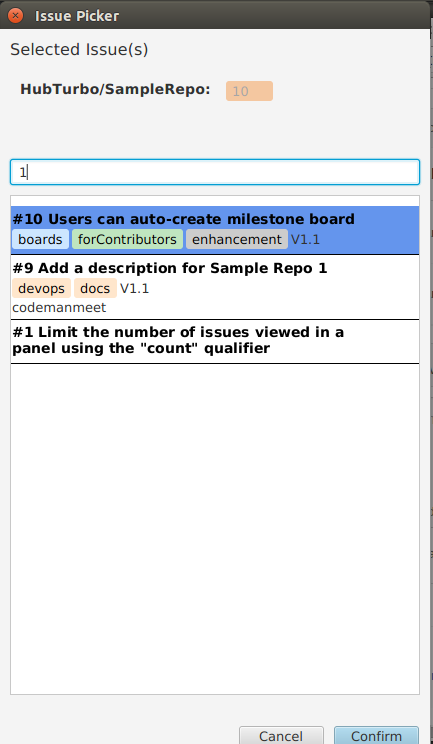
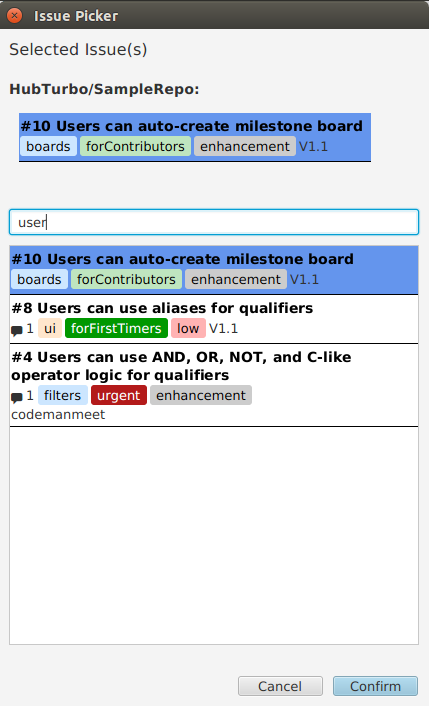
Remove PickerIssue and fix focus after mouse click

Changed region(s): [[0.0, 0.0, 1.0, 1.0]]

diff --git a/src/main/java/ui/components/issuepicker/IssueCard.java b/src/main/java/ui/components/issuepicker/IssueCard.java
@@ -93,30 +93,29 @@ public class IssueCard extends VBox {
         issueDetails.getChildren().clear();
         TurboIssue issue = guiElement.getIssue();
 
-        if (issue.isPullRequest()) {
-            Label icon = new Label(OCTICON_PULL_REQUEST);
-            icon.getStyleClass().addAll("octicon", "issue-pull-request-icon");
-            issueDetails.getChildren().add(icon);
-        }
+        addPullRequestIcon(issue);
+        addCommentIcon(issue);
+        addLabels();
+        addMilestoneIcon(issue);
 
-        if (issue.getCommentCount() > 0){
-            Label commentIcon = new Label(OCTICON_COMMENT);
-            commentIcon.getStyleClass().addAll("octicon", "comments-label-button");
-            Label commentCount = new Label(Integer.toString(issue.getCommentCount()));
+        createAuthorBox(issue);
+        createAssigneeBox(issue);
+    }
 
-            issueDetails.getChildren().add(commentIcon);
-            issueDetails.getChildren().add(commentCount);
-        }
-
+    private void addLabels() {
         for (TurboLabel label : guiElement.getLabels()) {
             issueDetails.getChildren().add(label.getNode());
         }
+    }
 
-        if (issue.getMilestone().isPresent() && guiElement.getMilestone().isPresent()) {
-            TurboMilestone milestone = guiElement.getMilestone().get();
-            issueDetails.getChildren().add(new Label(milestone.getTitle()));
+    private void createAssigneeBox(TurboIssue issue) {
+        if (issue.getAssignee().isPresent()) {
+            HBox assigneeBox = createDisplayUserBox(guiElement.getAssignee(), issue.getAssignee().get());
+            authorAssigneeBox.getChildren().add(assigneeBox);
         }
+    }
 
+    private void createAuthorBox(TurboIssue issue) {
         if (issue.isPullRequest()) {
             HBox authorBox = createDisplayUserBox(guiElement.getAuthor(), issue.getCreator());
             authorAssigneeBox.getChildren().add(authorBox);
@@ -126,10 +125,31 @@ public class IssueCard extends VBox {
                 authorAssigneeBox.getChildren().add(rightArrow);
             }
         }
+    }
 
-        if (issue.getAssignee().isPresent()) {
-            HBox assigneeBox = createDisplayUserBox(guiElement.getAssignee(), issue.getAssignee().get());
-            authorAssigneeBox.getChildren().add(assigneeBox);
+    private void addMilestoneIcon(TurboIssue issue) {
+        if (issue.getMilestone().isPresent() && guiElement.getMilestone().isPresent()) {
+            TurboMilestone milestone = guiElement.getMilestone().get();
+            issueDetails.getChildren().add(new Label(milestone.getTitle()));
+        }
+    }
+
+    private void addCommentIcon(TurboIssue issue) {
+        if (issue.getCommentCount() > 0){
+            Label commentIcon = new Label(OCTICON_COMMENT);
+            commentIcon.getStyleClass().addAll("octicon", "comments-label-button");
+            Label commentCount = new Label(Integer.toString(issue.getCommentCount()));
+
+            issueDetails.getChildren().add(commentIcon);
+            issueDetails.getChildren().add(commentCount);
+        }
+    }
+
+    private void addPullRequestIcon(TurboIssue issue) {
+        if (issue.isPullRequest()) {
+            Label icon = new Label(OCTICON_PULL_REQUEST);
+            icon.getStyleClass().addAll("octicon", "issue-pull-request-icon");
+            issueDetails.getChildren().add(icon);
         }
     }
 

diff --git a/src/main/java/ui/components/issuepicker/IssuePickerState.java b/src/main/java/ui/components/issuepicker/IssuePickerState.java
@@ -7,7 +7,7 @@ import java.util.Optional;
 import backend.resource.TurboIssue;
 
 /**
- * This class is used to represent the state of the issue picker. 
+ * Represents the state of the issue picker. 
  */
 public class IssuePickerState {
 
@@ -33,7 +33,6 @@ public class IssuePickerState {
     public List<TurboIssue> getSuggestedIssues() {
         return suggestedIssues;
     }
-
 
     /**
      * Sets issues based on given user input

diff --git a/src/main/java/ui/components/issuepicker/IssuePickerDialog.java b/src/main/java/ui/components/issuepicker/IssuePickerDialog.java
@@ -139,6 +139,7 @@ public class IssuePickerDialog extends Dialog<String> {
         issuepickerQueryField.setDisable(true);
         Platform.runLater(card::requestFocus);
         populateSelectedIssues(Optional.of(issue));
+        populateSuggestedIssues(state.getSuggestedIssues(), Optional.of(issue));
     }
 
     // UI helper methods

diff --git a/docs/issue_picker.md b/docs/issue_picker.md
@@ -7,9 +7,9 @@ Press <kbd>Ctrl</kbd> + <kbd>I</kbd> to `launch` the issue picker.
 ![](images/pickers/issue_picker_main.png?raw=true)
 
 The `Issue Picker` is divided into 3 main sections:
- 1. `Selected issues pane` : shows issues that will be selected upon confirmation 
+ 1. `Selected issues area` : shows issues that will be selected upon confirmation 
  2. `Query field`     : enter your query here to filter all issues in current repository 
- 3. `Suggested issues pane`: lists all issues that matches your query. 
+ 3. `Suggested issues area`: lists all issues that matches your query. 
  
 ### Selecting issues
 Typing in the text field will highlight the issue that matches the query. 
